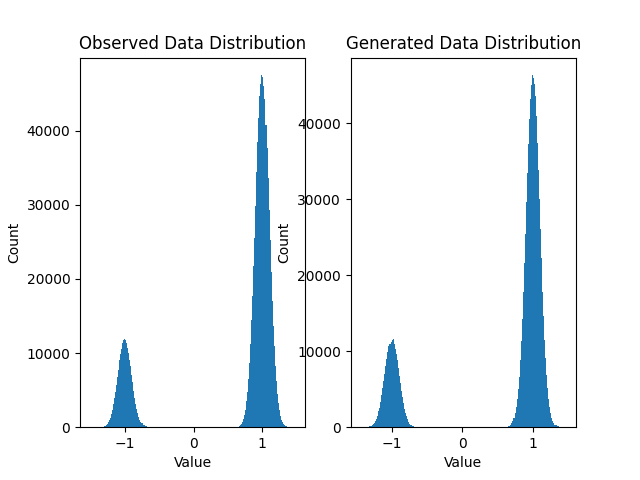
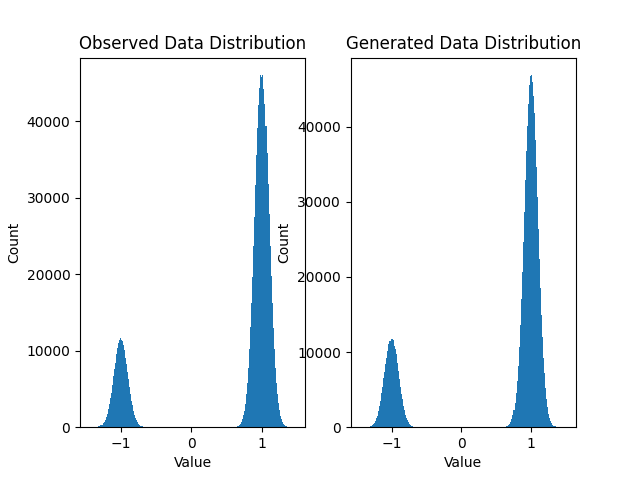
Update jax implementation.
Add jited core loop.

diff --git a/em.py b/em.py
@@ -63,33 +63,46 @@ def em(examples, max_iters, tol):
     return p, mu0, sd0, mu1, sd1
 
 
+def jax_em_iter(examples, p, mu_0, sd_0, mu_1, sd_1):
+    p_x_z_is_0 = jax.scipy.stats.norm.pdf(examples, loc=mu0, scale=sd0)
+    p_x_z_is_1 = jax.scipy.stats.norm.pdf(examples, loc=mu1, scale=sd1)
+    p_x = p_x_z_is_0*(1 - p) + p_x_z_is_1*p
+    # Setup latent distribution using current estimate.
+    p_z_given_x = p_x_z_is_1*p/p_x
+    p_new = jnp.mean(p_z_given_x)
+    p_not_z_given_x = 1.0 - p_z_given_x
+    # Maximize expectation.
+    sum_p_given_x = jnp.sum(p_z_given_x)
+    sum_not_p_given_x = jnp.sum(p_not_z_given_x)
+    mu1_new = jnp.dot(p_z_given_x, examples)/sum_p_given_x
+    mu0_new = jnp.dot(p_not_z_given_x, examples)/sum_not_p_given_x
+    sd1_new = jnp.sqrt(
+        jnp.dot(p_z_given_x, (examples - mu1_new)**2)/sum_p_given_x)
+    sd0_new = jnp.sqrt(
+        jnp.dot(p_not_z_given_x, (examples - mu0_new) ** 2) /
+        sum_not_p_given_x)
+    return p_new, mu0_new, sd0_new, mu1_new, sd1_new
+
+
 def jax_em(examples, max_iters, tol):
     ''' Expectation maximization implementation using JAX.'''
     examples = jax.device_put(examples)
-    mu0 = -2.0
-    sd0 = 1.0
-    mu1 = +2.0
-    sd1 = 1.0
-    p = 0.5
+    mu0 = -5.0
+    sd0 = 2.0
+    mu1 = +5.0
+    sd1 = 2.0
+    p = 0.01
+    jited_core_loop = jax.jit(jax_em_iter)
     start = time.time()
     for iter in range(max_iters):
-        p_x_z_is_0 = jax.scipy.stats.norm.pdf(examples, loc=mu0, scale=sd0)
-        p_x_z_is_1 = jax.scipy.stats.norm.pdf(examples, loc=mu1, scale=sd1)
-        p_x = p_x_z_is_0*(1 - p) + p_x_z_is_1*p
-        # Setup latent distribution using current estimate.
-        p_z_given_x = p_x_z_is_1*p/p_x
-        p_new = jnp.mean(p_z_given_x).item()
-        p_not_z_given_x = 1.0 - p_z_given_x
-        # Maximize expectation.
-        sum_p_given_x = jnp.sum(p_z_given_x).item()
-        sum_not_p_given_x = jnp.sum(p_not_z_given_x).item()
-        mu1_new = jnp.dot(p_z_given_x, examples).item()/sum_p_given_x
-        mu0_new = jnp.dot(p_not_z_given_x, examples).item()/sum_not_p_given_x
-        sd1_new = math.sqrt(
-            jnp.dot(p_z_given_x, (examples - mu1_new)**2).item()/sum_p_given_x)
-        sd0_new = math.sqrt(
-            jnp.dot(p_not_z_given_x, (examples - mu0_new) ** 2).item() /
-            sum_not_p_given_x)
+        p_new, mu0_new, sd0_new, mu1_new, sd1_new = jited_core_loop(
+            examples, p, mu0, sd0, mu1, sd1)
+        p_new, mu0_new, sd0_new, mu1_new, sd1_new = (
+            p_new.item(),
+            mu0_new.item(),
+            sd0_new.item(),
+            mu1_new.item(),
+            sd1_new.item())
         max_delta = max(
             abs(p_new - p),
             abs(mu0_new - mu0),
